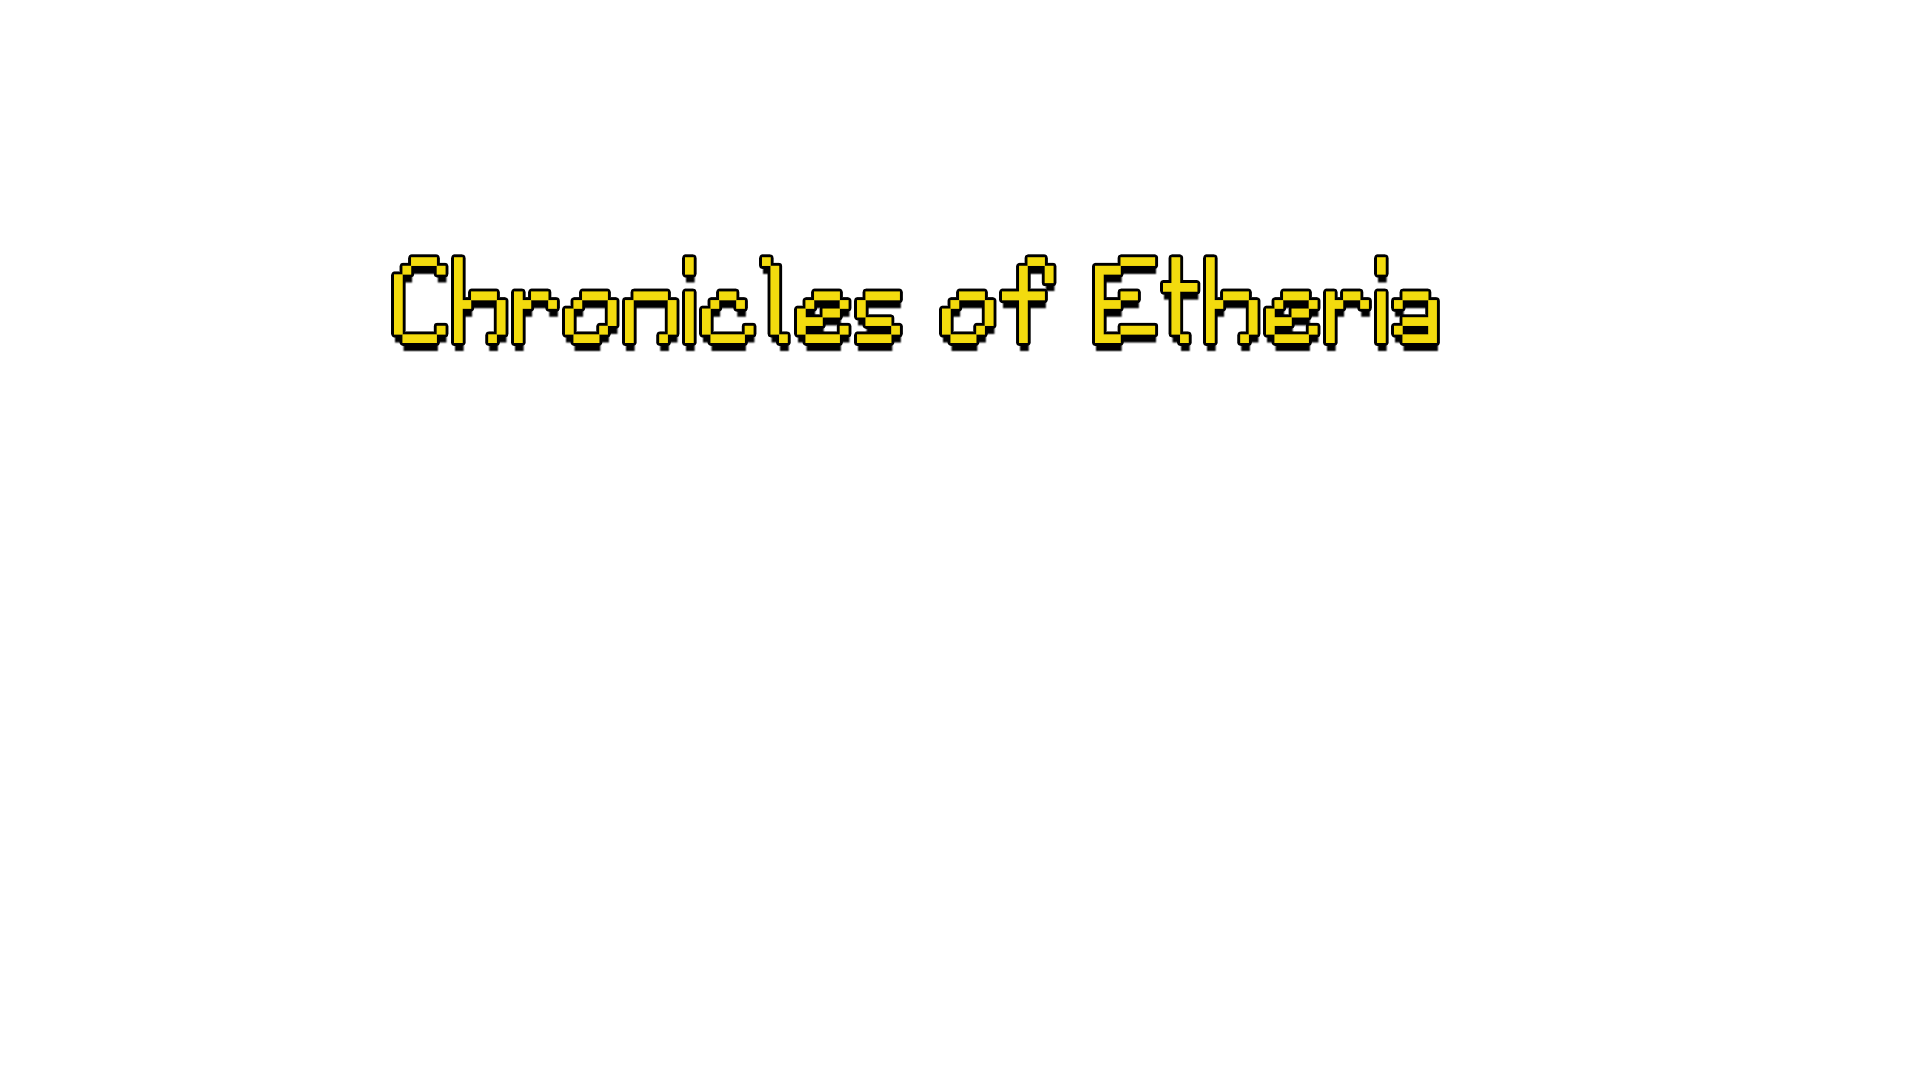
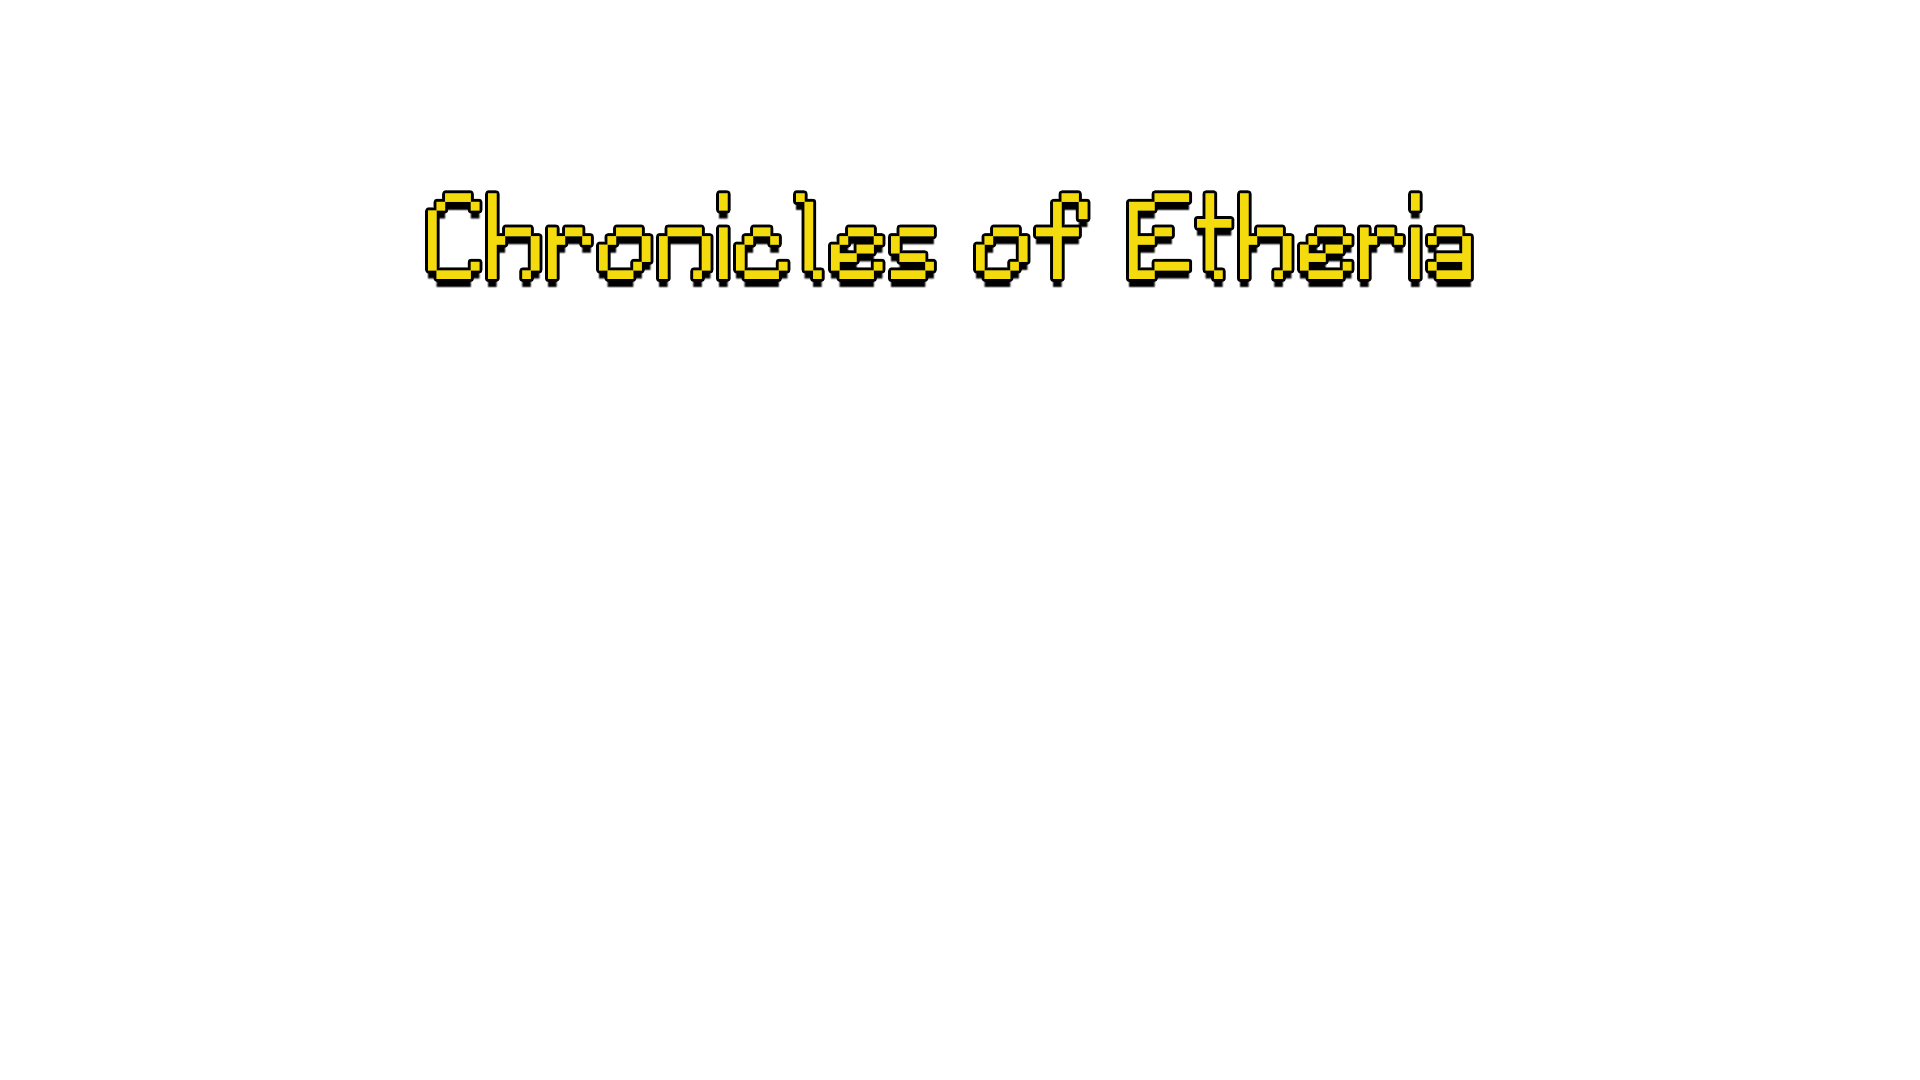
main menu start button finished and optimization

Changed region(s): [[0.1875, 0.1528, 0.7812, 0.3361]]

diff --git a/function.py b/function.py
@@ -1,7 +1,7 @@
 import pygame
 import time
 import os
-from Class import Animation, Button
+from Class import Animation, Button, Music, TittleName
 
 pygame.init()
 pygame.mixer.init()
@@ -89,25 +89,12 @@ def parallax(inf, scroll, folder):
             speed += 1
 
 
-def title_name():
-    title_name = pygame.image.load('Assets/menu/Chronicles_of_Etheria.png').convert_alpha()
-    title_name = pygame.transform.scale(title_name, (width, height))
-    title_name.set_colorkey((255, 255, 255))
-    screen.blit(title_name, (0, 0))
-
-
-def main_menu(folder):
+def game(folder):
     scroll = 0
     inf = 0
-    menu_sound_and_apparition()
-    player_walk = Animation(screen, width, height, 'Assets/character/player/Run.png', 2, 128,
-                            ((width / 4) - 300, height - (height / 1.95)))
-    princess_walk = Animation(screen, width, height, 'Assets/character/hime/walk.png', 2, 128,
-                              (width - (width / 4), height - (height / 1.95)))
-    start_button = pygame.image.load('Assets/menu/start/start2.png').convert_alpha()
-    button_width, button_height = start_button.get_rect().width, start_button.get_rect().height
-
-    start = Button((width / 2 - button_width * 3.5 / 2),(height / 2 - button_height * 3.5 / 2), start_button, 3.5)
+    menu_music = Music("sound/music/The_Adventure_Begins.mp3")
+    menu_music.play(-1)
+    title_name = TittleName(screen, width, height)
 
     run = True
     while run:
@@ -116,16 +103,7 @@ def main_menu(folder):
         inf += 2
         parallax(inf, scroll, folder)
         scroll += 5
-        title_name()
-
-        start.draw()
-        player_walk.update()
-        player_walk.draw()
-        princess_walk.update()
-        princess_walk.draw()
-
-
-        pygame.display.flip()
+        title_name.draw()
 
         for event in pygame.event.get():
 
@@ -138,13 +116,52 @@ def main_menu(folder):
     pygame.quit()
 
 
-def game():
-    run = True
 
+def main_menu(folder):
+    scroll = 0
+    inf = 0
+    menu_music = Music("sound/music/theme_of_love.mp3")
+
+    player_walk = Animation(screen, width, height, 'Assets/character/player/Run.png', 2.4, 128, 128,
+                            ((width / 4) - 300, height - (height / 1.95)))
+
+    princess_walk = Animation(screen, width, height, 'Assets/character/hime/walk.png', 2, 128, 128,
+                              (width - (width / 4), height - (height / 2.2)))
+
+    start_button = pygame.image.load('Assets/menu/start/start2.png').convert_alpha()
+    button_width, button_height = start_button.get_rect().width, start_button.get_rect().height
+
+    start_button = Button((width / 2 - button_width * 3.5 / 2), (height / 2 - button_height * 3.5 / 2),
+                          start_button, 3.5, screen, 'Assets/menu/start/start_spritesheet.png', width, height)
+
+    title_name = TittleName(screen, width, height)
+
+    menu_music.play(-1)
+    run = True
     while run:
+
+        screen.fill((0, 0, 0))
+        inf += 2
+        parallax(inf, scroll, folder)
+        scroll += 5
+        title_name.draw()
+        start_button.draw()
+        player_walk.update()
+        player_walk.draw()
+        princess_walk.update()
+        princess_walk.draw()
+
+        pygame.display.flip()
+
         for event in pygame.event.get():
+            if start_button.clicked():
+                run = False
+                menu_music.music.stop()
+                game('Assets/background/sunset_sky')
+            if pygame.key.get_pressed()[pygame.K_ESCAPE]:
+                run = False
             if event.type == pygame.QUIT:
                 run = False
-        screen.fill((0, 0, 0))
-        pygame.display.flip()
         clock.tick(60)
+        pygame.display.update()
+    pygame.quit()

diff --git a/Class.py b/Class.py
@@ -1,8 +1,7 @@
 import pygame
 
 pygame.init()
-width, height = pygame.display.Info().current_w, pygame.display.Info().current_h
-screen = pygame.display.set_mode((width, height))
+
 
 class Spritesheet:
     def __init__(self, image):
@@ -16,8 +15,28 @@ class Spritesheet:
         return image
 
 
+class TittleName:
+    def __init__(self, screen, width, height):
+        self.screen = screen
+        self.width = width
+        self.height = height
+        title_image = pygame.image.load('Assets/menu/Chronicles_of_Etheria.png').convert_alpha()
+        self.title_image = pygame.transform.scale(title_image, (self.width, self.height))
+
+    def draw(self):
+        self.screen.blit(self.title_image, (0, 0))
+
+
+class Music:
+    def __init__(self, music_location):
+        self.soundtrack = pygame.mixer.Sound(music_location)
+
+    def play(self, loop):
+        self.soundtrack.play(loop)
+
+
 class Animation:
-    def __init__(self, screen, width, height, sheet_location, scale, sprite_pixel, coordinates):
+    def __init__(self, screen, width, height, sheet_location, scale, pixel_x, pixel_y, coordinates):
         self.screen = screen
         self.width = width
         self.height = height
@@ -25,7 +44,7 @@ class Animation:
         self.coordinates = coordinates
         sprite_sheet = pygame.image.load(sheet_location).convert_alpha()
         sheet_length = sprite_sheet.get_width()
-        animation_step = sheet_length // sprite_pixel
+        animation_step = sheet_length // pixel_x
         self.sprite = Spritesheet(sprite_sheet)
         self.sprite_animation_list = []
         self.sprite_animation_steps = animation_step
@@ -35,7 +54,7 @@ class Animation:
 
         for i in range(animation_step):
             self.sprite_animation_list.append(
-                self.sprite.get_image(i, sprite_pixel, sprite_pixel, scale, (0, 255, 246)))
+                self.sprite.get_image(i, pixel_x, pixel_y, scale, (0, 255, 246)))
 
     def update(self):
         current_time = pygame.time.get_ticks()
@@ -46,19 +65,35 @@ class Animation:
     def draw(self):
         self.screen.blit(self.sprite_animation_list[self.frame], self.coordinates)
 
+
 class Button:
-    def __init__(self,x ,y ,image, scale):
+    def __init__(self, x, y, image, scale, screen, sheet, width, height):
         self.x = x
         self.y = y
-        width = image.get_width()
-        height = image.get_height()
-        self.image = pygame.transform.scale(image, (int(width * scale), int(height * scale)))
+        image_width = image.get_width()
+        image_height = image.get_height()
+        self.image = pygame.transform.scale(image, (int(image_width * scale), int(image_height * scale)))
+        self.scale = scale
+        self.screen = screen
+        self.sheet = sheet
         self.rect = self.image.get_rect()
         self.rect.topleft = (x, y)
+        self.width = width
+        self.height = height
+
+        self.button_animation = Animation(screen, width, height, sheet, scale, 64, 16,
+                                          (x, y))
+
+    def clicked(self):
+
+        if self.rect.collidepoint(pygame.mouse.get_pos()) and pygame.mouse.get_pressed()[0] == 1:
+            return True
 
     def draw(self):
         pos = pygame.mouse.get_pos()
 
         if self.rect.collidepoint(pos):
-            pygame.draw.rect(screen, (255, 0, 0), self.rect)
-        screen.blit(self.image, (self.rect.x, self.rect.y))
+            self.button_animation.update()
+            self.button_animation.draw()
+        elif not self.rect.collidepoint(pos):
+            self.screen.blit(self.image, (self.rect.x, self.rect.y))
